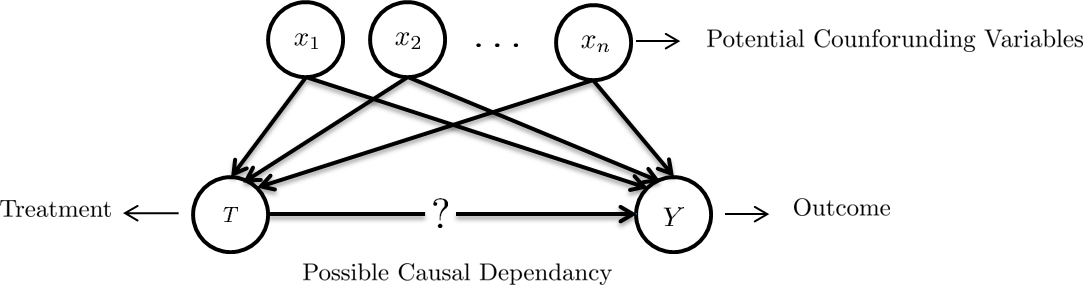
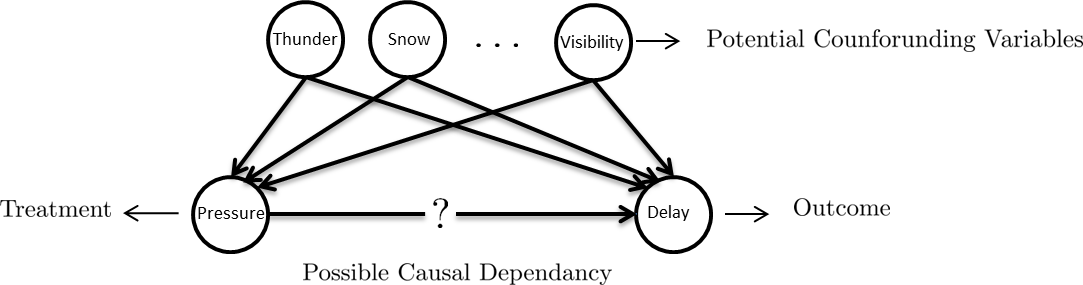
intro updated

diff --git a/paper_sigmod17_demo/paper/intro.tex b/paper_sigmod17_demo/paper/intro.tex
@@ -38,18 +38,25 @@ Both predictive and causal analysis are needed to generate and test theories,
 In fact, performing predictive analysis to address questions that are causal in nature could lead to a flood of false discovery claims.
 In many cases, researchers who want to discover causality from data analysis settle for predictive analysis either because they think it is causal or lack of available alternatives.
 }
+Causal inference has been studied extensively in statistics and
+computer science \cite{Fisher1935design,Rubin2005,holland1986statistics,PearlBook2000\ignore{,Spirtes:book01}}.
+Many tools perform causal inference
+ using statistical software such as SAS, SPSS, or R project. However, these toolkits do not scale to large datasets.  Furthermore, in many of the most interesting Big Data settings, the data
+is highly relational (e.g, social networks, biological networks, sensor networks and more) and likely to pour into SQL systems. There is a rich ecosystem of tools and organizational requirements that encourage this. Transferring
+data from DBMS to statistical softwares or connecting these
+softwares to DBMS can be error prone, difficult, time consuming and inefficient. For these
+cases, it would be helpful to push statistical methods for causal inference into the DBMS.
+\ignore{\corey{should go over the scalability / current tool problem here before jumping into the solution?}}
 
-\corey{should go over the scalability / current tool problem here before jumping into the solution?}
-We design and develop \GSQL,\footnote{ The prefix Zali refers to
+In this demonstration we propose \GSQL,\footnote{ The prefix Zali refers to
   al-Ghzali (1058-1111), a medieval Persian philosopher. It is known
   that David Hume (1711-1776), a Scottish philosopher, who gave the
   first explicit definition of causation in terms of counterfactuals,
   was heavily influenced by al-Ghzali's conception of causality
   \cite{shalizi2013advanced}.}
-  a SQL-based framework for drawing causal inference that circumvents the scalability issue with the existing tools.
-ZaliQL supports state-of-the-art methods for causal
-inference and runs at scale within a database engine.  In \GSQL\ we develop
-develop a series of optimization techniques allowing our system to
+  a SQL-based framework for drawing causal inference that circumvents the scalability issue with the existing tools. ZaliQL supports state-of-the-art methods for causal
+inference and runs at scale within a database engine.   \GSQL\ is designed and implemented as an extender for PostgreSQL object-relational database
+system and includes a series of optimization techniques allowing our system to
 scale to billions of records. In this demonstration we use \GSQL\ to perform causal inference in the following scenario:
 
 \ignore{
@@ -107,10 +114,16 @@ scale to billions of records. In this demonstration we use \GSQL\ to perform cau
 \label{tab:attlist}
 \end{table*}
 }
+\begin{figure}
+\includegraphics[scale=0.5]{figures/counf.png}
+\caption{A typical scenario for Causal inference}
 
+\label{fig:cv}
+\vspace{-0.3cm}
+\end{figure}
 \begin{figure}
   \includegraphics[scale=0.3]{Figures/Matching-Flowchart.png}
-\caption{Matching observational data for causal inference}
+\caption{Matching observational data for Causal inference}
 \label{fig:flowchart}
 \vspace{-0.3cm}
 \end{figure}
@@ -210,20 +223,22 @@ In causal analysis, the difficulty arises from the fact that here the objective 
 \vspace{-0.3cm}
 \end{figure*}
 
-\begin{example} \em \delay   \label{ex:press} \em
-  Suppose we want to explore the effect of low-pressure on flight departure delays.
-  High pressure is generally associated with clear weather,
-    while low-pressure is associated with unsettled weather, e.g.,
-    cloudy, rainy, or snowy weather\ignore{\cite{weba2,barometricpressureheadache:article}}.
-  Therefore, conducting any sort of predictive analysis identifies
+
+It is known that causal inference is possible under careful random \emph{randomized} or \emph{controlled} experiment, in which a treatment (the potential cause) is assigned randomly to subjects. However, most of the big data available today are observational meaning that unlike collected opportunistically. The major problem in causal inference from observational data is the existence of the so-called {\em confounding variables} between a treatment and a outcome which makes the direct comparison between the group that received treatment and the grout that subject to control infeasible. The following example explains this issue.
+
+
+
+\begin{example} \em \delay (cont.) \ \em   Suppose we want to explore the effect of the low-pressure(treatment) on flight departure delays (outcome).  The direct comparison of 
+flight delay between the those flight that happen during low-pressure (treated groups) and the opposite group is misleading.  It is known that high pressure is generally associated with clear weather,    while low-pressure is associated with unsettled weather, e.g.,
+    cloudy, rainy, or snowy weather\ignore{\cite{weba2,barometricpressureheadache:article}}. Thus, as shown in Figure \ref{fig:cv}, factors such as thunder, snow, visibility confound pressure and delay. Therefore, conducting any sort of predictive analysis identifies
     low-pressure as a predictor for flight delays.
   However, low-pressure does not have any causal impact on departure delay
-    (low-pressure only requires longer takeoff distance) \cite{FAA08}.
-  That is, low-pressure is most highly a correlated attribute with flight delays,
-    however \GSQL\ found that other attributes such as thunder, low-visibility, high-wind-speed and
+    (low-pressure only requires longer takeoff distance) \cite{FAA08}. That is, low-pressure is most highly a correlated attribute with flight delays. By performing a careful casual analysis
+    \GSQL\ found that other attributes such as thunder, low-visibility, high-wind-speed and
     snow have the largest causal effect on flight delays (see Sec. \ref{sec:endtoend});
-  this is confirmed by the results reported by the FAA and ...
+  this is confirmed by the results reported by the FAA.
 \end{example}
+
 
 % They defined a very simple model, where we
 % want to conclude \dan{Lise: what's your comment here?}  if one
@@ -255,14 +270,19 @@ Underground \cite{flightdata,Weatherdata}
 }
 
 \vspace{-2mm}
+Roughly speaking, in order to draw valid causal conclusion one need to control for the
+confounding influence of that affect both treatment and outcome. A papular method for 
+performing this task is statistic and social science is that of {\em matching}.
+The key goal of matching is to prune observations from the data so that
+the remaining data have better balance between the treated and control groups meaning that the empirical
+distributions of the confounding variables (a.k.a covariates) in the groups are more similar. A typical workfellow of causal inference via matching is shown in picture \ref{fig:flowchart}. 
 
-The demonstration will enable the attendees to experiment with various algorithms for causal inference
-  and experience their benefits and limitations.
+The demonstration will enable the attendees to experiment with various matching method for causal inference and experience their benefits and limitations.
 The attendees will select a causal question by specifying a treatment,
   an outcome and particular method to perform causal inference.
 The attendee will also able to adjust the tunable parameters for these algorithms.
 The demonstration will run a remotely served web application that interfaces with our demo flight and weather database.
 
 The demonstration will make two contributions. It will
-  (1) explain and demonstrate the pipeline of drawing valid causal conclusions from large data sets and
-  (2) enable the attendees to experience different methods for causal inference including coarsen exact matching, \ref{} propensity score matching \ref{ex:press} and the hybrid approaches.
+  (1) explain and demonstrate the pipeline of drawing valid causal conclusions from data and
+  (2) enable the attendees to experience different methods for causal inference and investigate their proc and cons.

diff --git a/paper_sigmod17_demo/paper/abstr.tex b/paper_sigmod17_demo/paper/abstr.tex
@@ -2,7 +2,6 @@ Causal inference from observational data is a subject of active research and dev
 \corey{citations here?}
 Many toolkits have been developed for this purpose that depend on statistical software.
 However, these toolkits do not scale to large datasets.
-We propose \GSQL\ a SQL-based framework for causal inference from observational data.
+We propose and demonstrate \GSQL\ a SQL-based framework for causal inference from observational data.
 \GSQL\ supports the state-of-the-art methods for causal inference and run at scale within a database engine.
-In addition, \GSQL\ includes several optimization techniques that significantly speedup causal inference, in both online and offline settings.
-Finally, we desined a visual interface to wrap around this framework and demonstrate \GSQL\ for quantifying the effect of different weather conditions on flight delays. 
+In addition, \GSQL\ includes several optimization techniques that significantly speedup causal inference, in both online and offline settings. \GSQL\ is designed as an extender for PostgreSQL object-relational database system. Finally,  designed a visual interface to wrap around this it and demonstrate \GSQL\ for quantifying the effect of different weather conditions on flight delays. 
